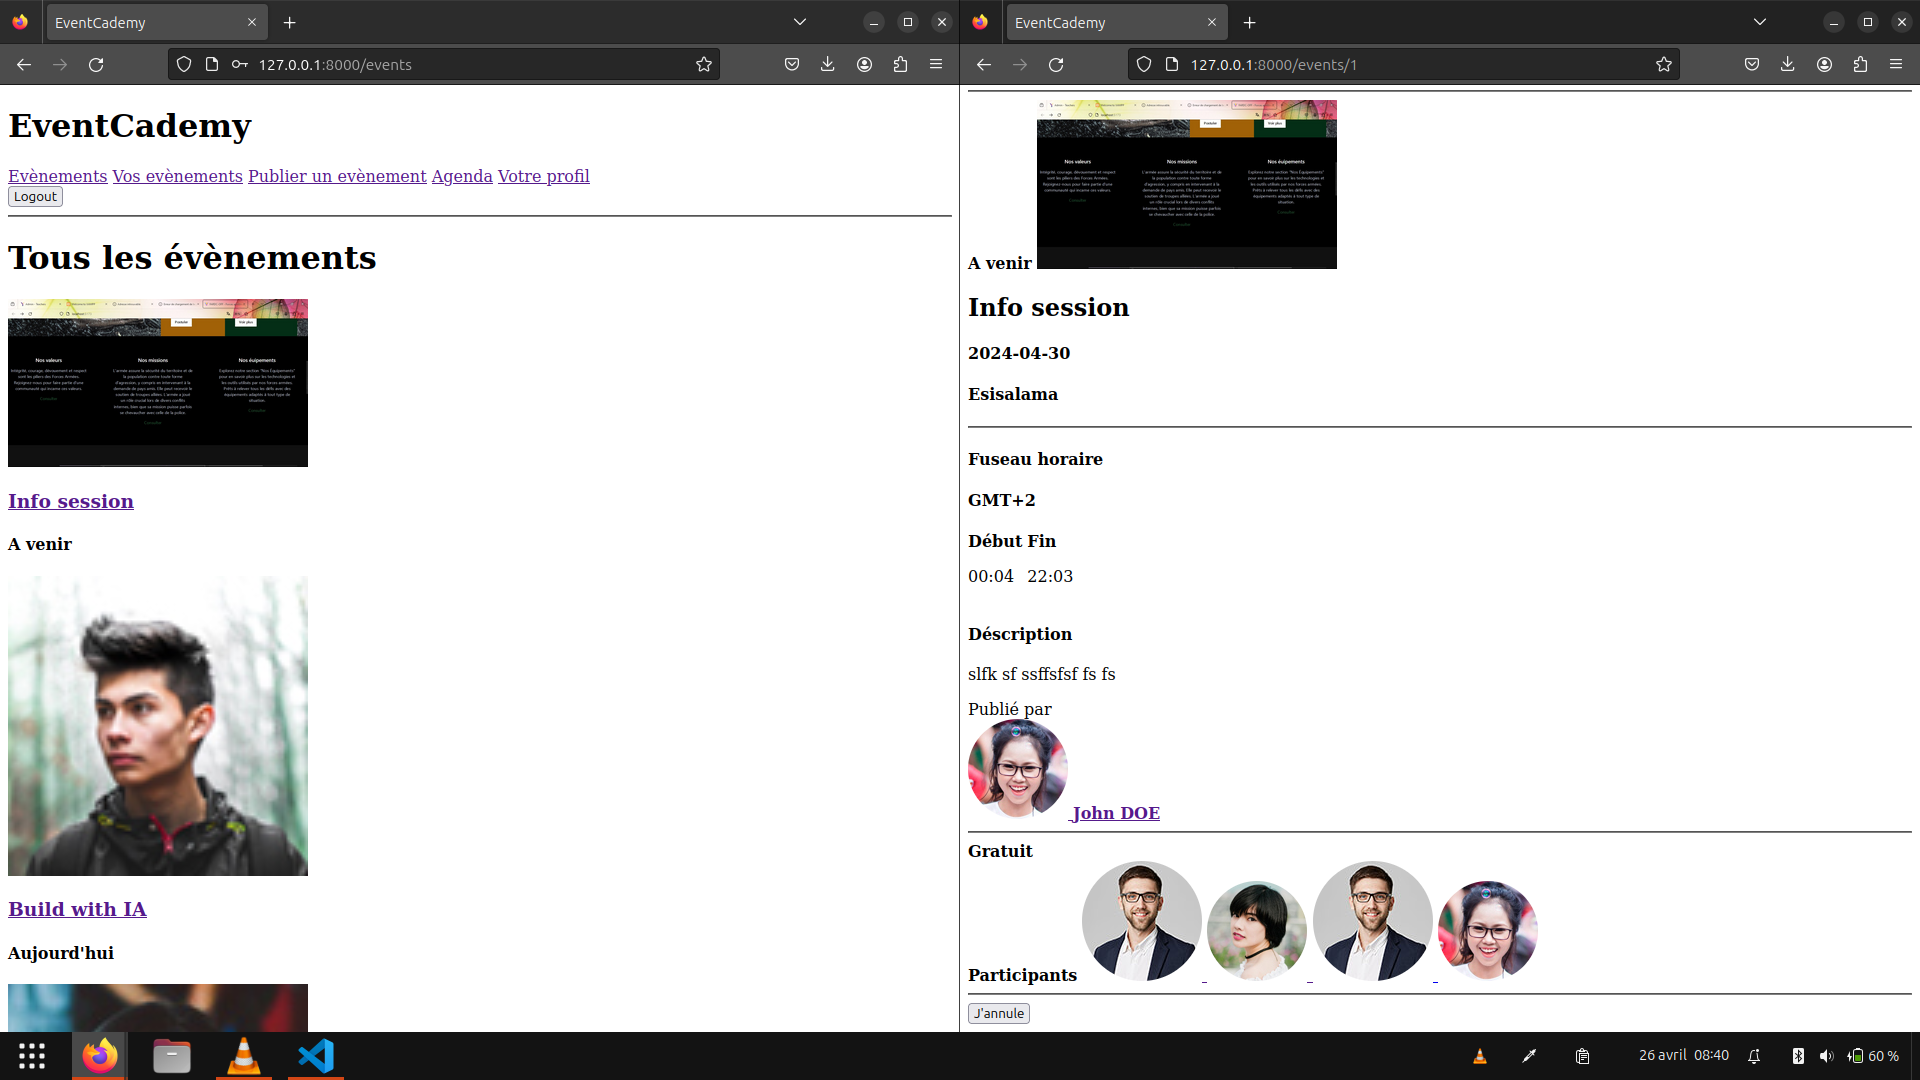
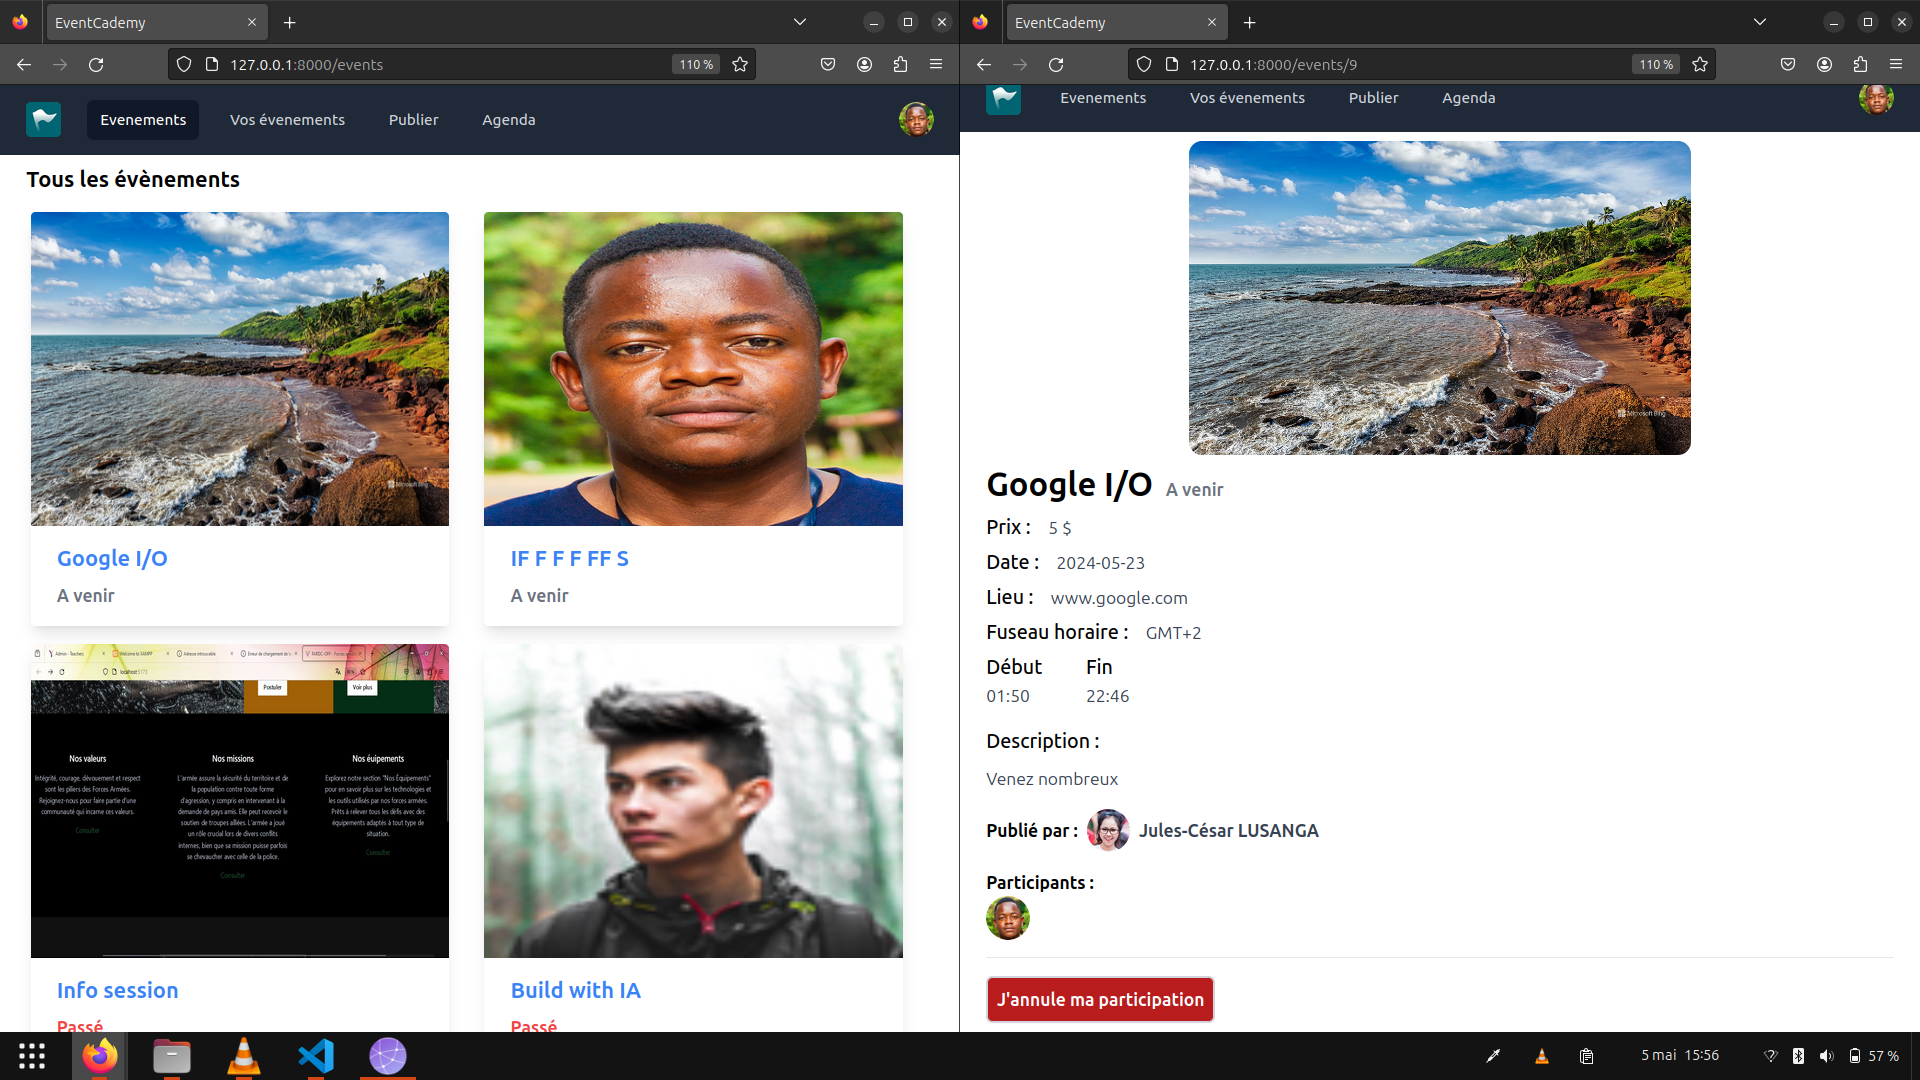
Frontend for event showing

diff --git a/resources/views/events/show.blade.php b/resources/views/events/show.blade.php
@@ -1,107 +1,109 @@
 <x-auth>
 
-    <div class="flex justify-center">
-        <img src="{{ $event->getCover() }}" alt="Event cover" class="h-72 w-10/12">
+    <div class="flex justify-center items-center">
+        <img src="{{ $event->getCover() }}" alt="Event cover" class="rounded-xl h-72 max-w-full mx-auto">
     </div>
 
-    <h2>
-        <span>{{ $event->title }}</span>
-        <strong> - {{ $event->isPassed() }}</strong>
+    <h2 class="my-2">
+        <span class="text-3xl font-bold">{{ $event->title }}</span>
+
+        <strong 
+            class="text-{{ $event->isPassed(getBoolVal:true) ? 'red' : 'gray' }}-500 ml-2"
+        >
+            {{ $event->isPassed() }}
+        </strong>
+
     </h2>
 
     @if (auth()->id() === $event->user_id and $event->isPassed(getBoolVal:true) == false)
-        <a href="{{ route('events.edit', $event) }}">Editer</a>
-
+    
+    <div class="flex space-x-2 mb-4">
+        <a href="{{ route('events.edit', $event) }}" class="text-blue-500 hover:underline">Editer</a>
         <x-form action="{{ route('events.destroy', $event) }}" method="delete">
-            <button type="submit">Supprimer</button>
+            <button type="submit" class="text-red-500 hover:underline">Supprimer</button>
         </x-form>
+    </div>
 
     @endif
 
-    <h4>{{ $event->date }}</h4>
-    <h4>{{ $event->location }}</h4>
-
-    <hr>
-
-    <h4>Fuseau horaire</h4>
-    <h4>GMT+2</h4>
-
-    <div style="display: inline-block">
-        <strong>Début</strong> <br>
-
-        <p>{{ $event->start_at }}</p>
+    <div class="flex items-center mb-1">
+        <h4 class="text-lg font-medium mr-4">Prix :</h4>
+        <p class="text-gray-700">{{ $event->price != null ? $event->price . ' $' : 'Gratuit' }}</p>
     </div>
 
-    <div style="display: inline-block">
-        <strong>Fin</strong> <br>
-
-        <p>{{ $event->end_at }}</p>
+    <div class="flex items-center mb-1">
+        <h4 class="text-lg font-medium mr-4">Date :</h4>
+        <p class="text-gray-700">{{ $event->date }}</p>
+    </div>
+    
+    <div class="flex items-center mb-1">
+        <h4 class="text-lg font-medium mr-4">Lieu :</h4>
+        <p class="text-gray-700">{{ $event->location }}</p>
     </div>
 
-    <div>
-        <h4>Déscription</h4>
-
-        <p>
-            {{ $event->description }}
-        </p>
+    <div class="flex items-center mb-1">
+        <h4 class="text-lg font-medium mr-4">Fuseau horaire :</h4>
+        <p class="text-gray-700">GMT+2</p>
     </div>
-
-    <div>
-        <span>Publié par</span> <br>
-
-
-        <a href="{{ route('profile.show', $event->user) }}">
-            <img src="{{ $event->user->getAvatar() }}" class="rounded-full h-24 w-24" alt="Avatar de l'auteur">
-            <strong>{{ $event->user->name }}</strong>
+    
+    <div class="flex mb-4 items-center">
+        <div class="mr-10">
+            <strong class="text-lg font-medium">Début</strong>
+            <p class="text-gray-700">{{ $event->start_at }}</p>
+        </div>
+        <div>
+            <strong class="text-lg font-medium">Fin</strong>
+            <p class="text-gray-700">{{ $event->end_at }}</p>
+        </div>
+    </div>
+    
+    <div class="mb-4">
+        <h4 class="text-lg font-medium mb-2">Description :</h4>
+        <p class="text-gray-700">{{ $event->description }}</p>
+    </div>
+    
+    <div class="flex items-center mb-4">
+        <span class="font-bold mr-2">Publié par :</span>
+        <a href="{{ route('profile.show', $event->user) }}" class="flex items-center">
+            <img src="{{ $event->user->getAvatar() }}" class="rounded-full h-10 w-10 mr-2" alt="Avatar de l'auteur">
+            <strong class="text-gray-700">{{ $event->user->name }}</strong>
         </a>
-
-
     </div>
-
-    <hr>
-
-    @if ($event->price == null)
-        <strong>Gratuit</strong>
-    @else
-        <strong>${{ $event->price }}</strong>
-    @endif
-
 
     <div>
         @if ($event->reservations->first() !== null)
-        
-            <strong>Participants</strong>
-            <div id="reservations-avatars">
-                @foreach ($event->reservations as $reservation)
-                
-                    <a href="{{ route('profile.show', $reservation->user) }}" class=" inline-block mr-2">
-                        <img src="{{ $reservation->user->getAvatar() }}" class="rounded-full h-24 w-24" alt="Avatar du participant">
-                    </a>
-                @endforeach
+            <div class="mb-4">
+                <strong>Participants :</strong>
+                <div id="reservations-avatars" class="flex space-x-2">
+                    @foreach ($event->reservations as $reservation)
+                        <a href="{{ route('profile.show', $reservation->user) }}" class="rounded-full h-10 w-10 overflow-hidden">
+                            <img src="{{ $reservation->user->getAvatar() }}" class="object-cover" alt="Avatar du participant">
+                        </a>
+                    @endforeach
+                </div>
             </div>
         @endif
-
-
+    
         @if (auth()->id() !== $event->user_id and $event->isPassed(getBoolVal:true) == false)
             
-            <hr>
-
+            <hr class="mb-4">
+    
             @if ($event->isReserved())
-                
+
                 <x-form action="{{ route('reservations.unset', $event) }}" method="delete">
-                    <x-danger-button type="submit">J'annule</x-danger-button>
+                    <x-danger-button type="submit">J'annule ma participation</x-danger-button>
                 </x-form>
 
             @else
-                
-                <x-form action="{{ route('reservations.set', $event) }}">
-                    <x-primary-button type="submit">J'y serais</x-primary-button>
-                </x-form>
+
+            <x-form action="{{ route('reservations.set', $event) }}">
+                <x-primary-button type="submit">Je participe</x-primary-button>
+            </x-form>
 
             @endif
-
         @endif
-    </div>
+</div>
+
 
 
 </x-auth>

diff --git a/resources/views/profile/edit.blade.php b/resources/views/profile/edit.blade.php
@@ -1,11 +1,11 @@
 <x-auth>
     <div class="flex flex-col items-center h-screen">
 
-        <h1 class="font-bold text-2xl">Editer mon profil</h1>
+        <h1 class="font-bold text-2xl mb-2">Editer mon profil</h1>
 
-        <img src="{{ auth()->user()->getAvatar() }}" alt="Avatar de l'utilisateur">
+        <img src="{{ auth()->user()->getAvatar() }}" class=" h-40 w-40 rounded-full" alt="Avatar de l'utilisateur">
 
-        <x-form action="{{ route('profile.update') }}" method="put" class="shadow-lg shadow-slate-300 p-4">
+        <x-form action="{{ route('profile.update') }}" method="put" class="shadow-lg shadow-slate-500 p-4">
 
             <h3 class="font-bold text-lg my-3">Informations personnelles</h3>
             
@@ -18,15 +18,14 @@
 
 
         
-        <x-form action="{{ route('profile.update-password') }}" method="put" class="shadow-lg shadow-slate-300 p-4 mbs-5">
-
-            <h3 class="font-bold text-lg my-3">Mot de passe</h3>
-
-            <x-input-with-label name="current_password" type="password" text="Mot de passe actuel" />
-            <x-input-with-label name="new_password" type="password" text="Nouveau mot de passe" />
-            <x-primary-button>Enregistrer</x-primary-button>
-
-        </x-form>
+        <div class="py-5">
+            <x-form action="{{ route('profile.update-password') }}" method="put" class="shadow-lg shadow-slate-400 p-4">
+                <h3 class="font-bold text-lg my-3">Mot de passe</h3>
+                <x-input-with-label name="current_password" type="password" text="Mot de passe actuel" />
+                <x-input-with-label name="new_password" type="password" text="Nouveau mot de passe" />
+                <x-primary-button>Enregistrer</x-primary-button>
+            </x-form>
+        </div>
 
     </div>
 </x-auth>

diff --git a/app/Http/Controllers/EventController.php b/app/Http/Controllers/EventController.php
@@ -37,7 +37,15 @@ class EventController extends Controller
     {
         // Check if submited ends time is bigger than starts time
         if ($request->end_at <= $request->start_at) {
-            return back()->with('error', "L'heure de la fin doit être supérieure à celle du début");
+            return back()->with('error', "L'heure de la fin doit être supérieure à celle du début !");
+        }
+
+        // Check if submited event date is bigger than now
+        if ($request->date < now()) {
+            return back()->with('error', "La date de l'évenèment doit être supérieure à celle actuelle !")
+                        ->onlyInput(
+                            'title', 'date', 'price', 'start_at', 'end_at', 'location', 'description',
+                        );
         }
 
         // Get all validated data

diff --git a/resources/views/components/input-with-label.blade.php b/resources/views/components/input-with-label.blade.php
@@ -10,13 +10,13 @@
 <div class="mb-3">
     <label for="{{ $name }}" class=" font-semibold">{{ $text }}</label>
 
-    <input type="{{ $type == null ? 'text' : $type }}" name="{{ $name }}" id="{{ $name }}" @required($nullable == null) value="{{ old($name) ? old($name) : $value }}" placeholder="{{ $placeholder == null ? $text : $placeholder }}"
+    <input type="{{ $type == null ? 'text' : $type }}" name="{{ $name }}" id="{{ $name }}" @required($nullable == null) value="{{ old($name, $value) }}" placeholder="{{ $placeholder == null ? $text : $placeholder }}"
         {{ $attributes->merge(['class' => 'border-2 border-gray-300 p-2 w-full']) }}
         min="0"
     >
 
     @error($name)
-        <p class="text-red-500">
+        <p class="text-red-500 font-medium" id="message">
             {{ $message }}
         </p>
     @enderror

diff --git a/resources/views/profile/show.blade.php b/resources/views/profile/show.blade.php
@@ -2,7 +2,9 @@
     <div class="flex flex-col items-center">
         <h3>Informations de l'utilisateur</h3>
         <div class="text-center font-bold">
-            <img src="{{ $user->getAvatar() }}" class="rounded-full h-28 w-28" alt="Avatar de l'utilisateur"r>
+            <div class="flex items-center">
+                <img src="{{ $user->getAvatar() }}" class="rounded-full h-28 w-28" alt="Avatar de l'utilisateur">
+            </div>
             <h4>{{ $user->name }}</h4>
         </div>
     </div>

diff --git a/app/Models/Event.php b/app/Models/Event.php
@@ -45,11 +45,11 @@ class Event extends Model
 
     public function isPassed(bool $getBoolVal = false)
     {
-        // Check if event has been passed
-        
+        // Get event date and current system date
         $event_date = $this->date;
         $current_date = date('Y-m-d');
 
+        // Check if event has been passed
         if ($current_date > $event_date) {
             return $getBoolVal === false ? "Passé" : true;
         } elseif ($current_date == $event_date) {

diff --git a/resources/views/components/auth.blade.php b/resources/views/components/auth.blade.php
@@ -14,13 +14,8 @@
     
     <main class="mx-auto max-w-7xl px-2 sm:px-6 lg:px-8 py-2">
 
-        @session('error')
-            <p style="color: red;" id="message">{{ session('error') }}</p>
-        @endsession
-
-        @session('success')
-            <p style="color: blue;" id="message">{{ session('success') }}</p>
-        @endsession
+        <x-alert-error></x-alert-error>
+        <x-alert-success></x-alert-success>
 
         {{ $slot }}
     </main>

diff --git a/resources/views/components/event-list.blade.php b/resources/views/components/event-list.blade.php
@@ -13,7 +13,9 @@
                             {{ $event->title }}
                         </a>
                     </div>
-                    <p class="text-gray-700 text-base">{{ $event->isPassed() }}</p>
+                    <p 
+                        class="text-{{ $event->isPassed(getBoolVal:true) ? 'red' : 'gray' }}-500 text-base font-bold"
+                    >{{ $event->isPassed() }}</p>
                 </div>
             </div>
 

diff --git a/resources/views/components/guest.blade.php b/resources/views/components/guest.blade.php
@@ -5,7 +5,7 @@
     <meta name="viewport" content="width=device-width, initial-scale=1.0">
     <meta http-equiv="X-UA-Compatible" content="ie=edge">
     <title>{{ config('app.name') }}</title>
-    @vite('resources/css/app.css')
+    @vite(['resources/css/app.css', 'resources/js/app.js'])
 </head>
 <body style="background-color: #edf5f6de">
     <main>        

diff --git a/app/Http/Controllers/AuthController.php b/app/Http/Controllers/AuthController.php
@@ -22,7 +22,8 @@ class AuthController extends Controller
         if (Auth::attempt($request->validated())) {
             return to_route('events.index');
         } else {
-            return back()->with('error', 'Login failed');
+            return back()->with('error', 'Login failed')
+                            ->onlyInput('email');
         }
     }
 

diff --git a/resources/views/components/textarea-with-label.blade.php b/resources/views/components/textarea-with-label.blade.php
@@ -13,7 +13,7 @@
     >{{ old($name) ? old($name) : $value }}</textarea>
 
     @error($name)
-        <p class="text-red-500">
+        <p id="message" class="text-red-500 font-bold">
             {{ $message }}
         </p>
     @enderror

diff --git a/resources/views/components/alert-error.blade.php b/resources/views/components/alert-error.blade.php
@@ -1,5 +1,5 @@
 @session('error')
-    <div class="text-red-500 font-medium">
+    <div id="message" class="text-red-600 mb-3 font-bold bg-red-200 p-3 border-l-4 border-red-950">
         {{ session('error') }}
     </div>
 @endsession
